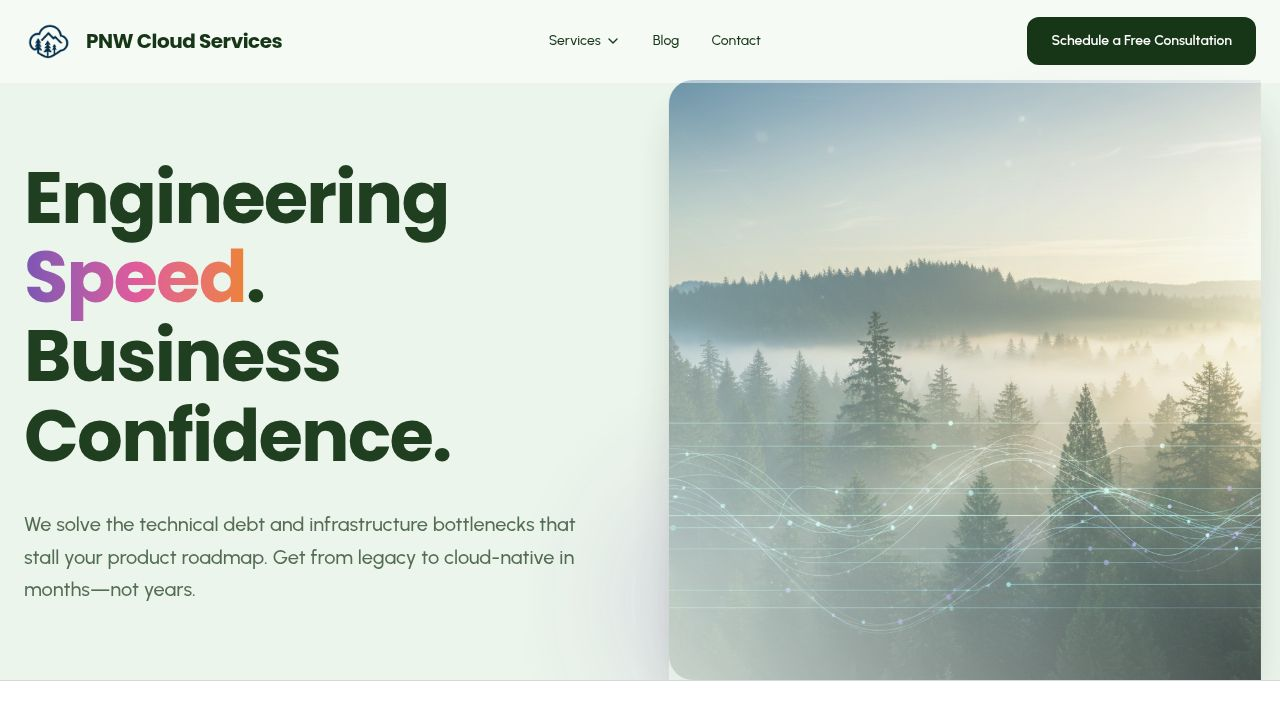
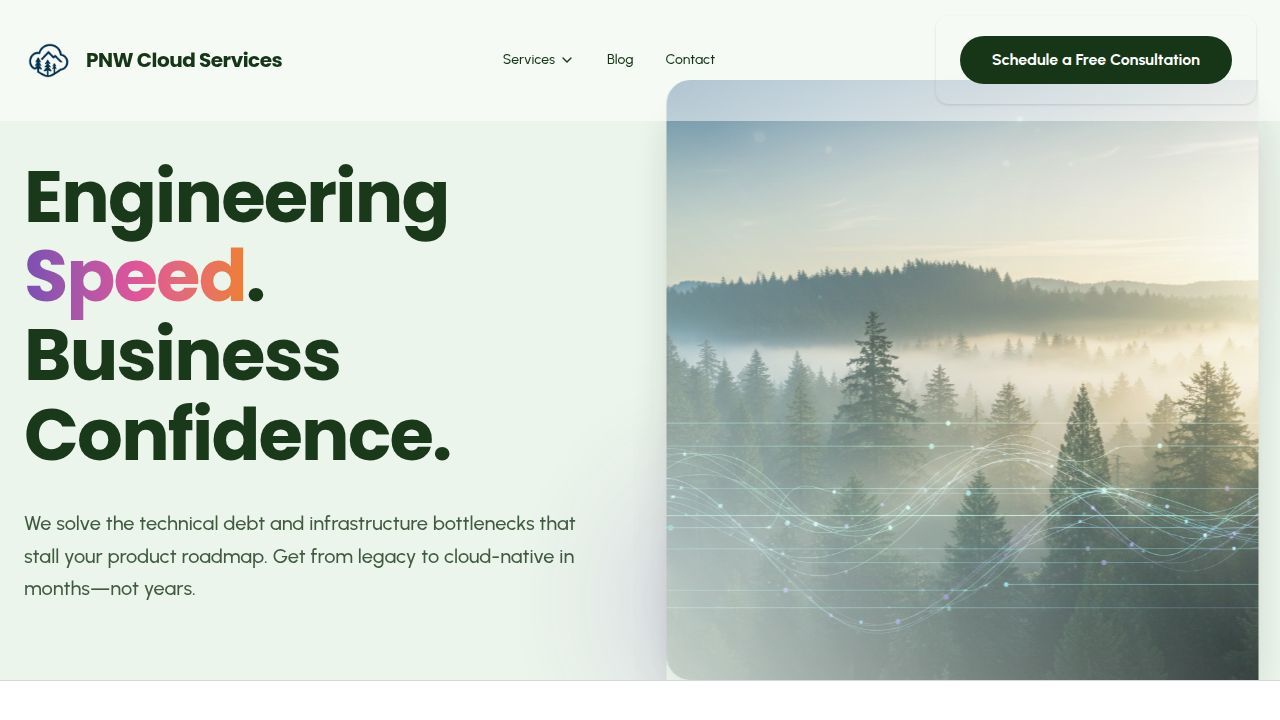
Add identical hover glow effect to consultation button
Update ScheduleFreeConsultationCTA.tsx to implement a gradient glow effect matching the service cards, using a wrapper div and an absolutely positioned gradient element.

Replit-Commit-Author: Agent
Replit-Commit-Session-Id: 21029520-0719-430a-9052-252388a4b66b
Replit-Commit-Checkpoint-Type: full_checkpoint
Replit-Commit-Event-Id: 6875faf3-0fad-4fcb-a778-5f9507cb5d2e
Replit-Commit-Screenshot-Url: https://storage.googleapis.com/screenshot-production-us-central1/e0d0b5d5-0989-45e9-a5cc-da82de3c706e/21029520-0719-430a-9052-252388a4b66b/534Hqqj
Replit-Helium-Checkpoint-Created: true

diff --git a/client/src/components/ScheduleFreeConsultationCTA.tsx b/client/src/components/ScheduleFreeConsultationCTA.tsx
@@ -21,7 +21,6 @@ export function ScheduleFreeConsultationCTA({
   "data-testid": testId,
 }: ScheduleFreeConsultationCTAProps) {
   const [isLoading, setIsLoading] = useState(false);
-  const [isHovered, setIsHovered] = useState(false);
 
   const handleClick = useCallback(async () => {
     setIsLoading(true);
@@ -59,36 +58,31 @@ export function ScheduleFreeConsultationCTA({
     sm: "h-10 px-6 text-sm",
   };
 
-  // Gradient glow matching service cards: blue-500, cyan-400, emerald-500
-  const glowShadow = isHovered 
-    ? '0 0 20px 4px rgba(59, 130, 246, 0.35), 0 0 35px 8px rgba(34, 211, 238, 0.25), 0 0 50px 12px rgba(16, 185, 129, 0.2)'
-    : 'none';
-
   return (
-    <button
-      type="button"
-      onClick={handleClick}
-      disabled={isLoading}
-      data-testid={testId || `cta-schedule-${source}`}
-      onMouseEnter={() => setIsHovered(true)}
-      onMouseLeave={() => setIsHovered(false)}
-      onFocus={() => setIsHovered(true)}
-      onBlur={() => setIsHovered(false)}
-      className={cn(
-        "inline-flex items-center justify-center font-bold rounded-full",
-        "bg-primary text-white",
-        "transition-all duration-300",
-        "hover:-translate-y-0.5",
-        "focus-visible:outline-none",
-        "disabled:opacity-50 disabled:cursor-not-allowed disabled:transform-none",
-        "motion-reduce:transform-none",
-        sizeClasses[size],
-        className
-      )}
-      style={{ boxShadow: glowShadow }}
-    >
-      {isLoading && <Loader2 className="w-4 h-4 animate-spin mr-2" />}
-      {label}
-    </button>
+    <div className={cn("relative group inline-flex", className)}>
+      {/* Glow div - EXACT same implementation as Service Cards */}
+      <div 
+        className="absolute -inset-1 rounded-full bg-gradient-to-r from-blue-500 via-cyan-400 to-emerald-500 opacity-0 blur-lg transition-opacity duration-300 group-hover:opacity-60 group-focus-within:opacity-60"
+        aria-hidden="true"
+      />
+      <button
+        type="button"
+        onClick={handleClick}
+        disabled={isLoading}
+        data-testid={testId || `cta-schedule-${source}`}
+        className={cn(
+          "relative z-10 inline-flex items-center justify-center font-bold rounded-full",
+          "bg-primary text-white",
+          "transition-transform duration-200 group-hover:-translate-y-0.5",
+          "focus-visible:outline-none focus-visible:ring-2 focus-visible:ring-primary/50 focus-visible:ring-offset-2",
+          "disabled:opacity-50 disabled:cursor-not-allowed disabled:transform-none",
+          "motion-reduce:transform-none",
+          sizeClasses[size]
+        )}
+      >
+        {isLoading && <Loader2 className="w-4 h-4 animate-spin mr-2" />}
+        {label}
+      </button>
+    </div>
   );
 }
